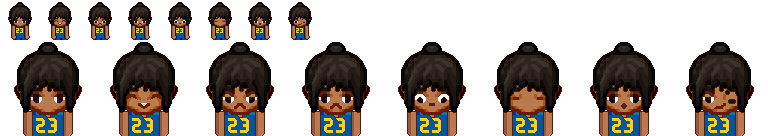
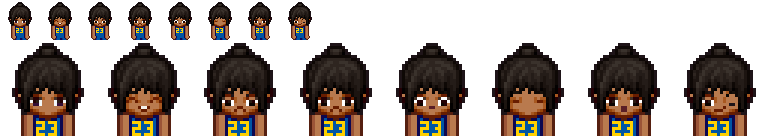
Tenis: la cancha definitiva de PixelForja (lote TENIS_V) y el kit al main de hoy
El fondo del Tenis en vertical ya no se arma por código: PixelForja lo pinta entero con la
misma proyección del juego (`tenis_fondo`, 800 x 360) y la red aparte (`tenis_red`), parte
`tenis` de `ui.interfaz`. `Tenis.ts` lo usa cuando está (`canchaArte`): el fondo en (-80, 0)
a profundidad -20 y la red en su `fila` (187) como profundidad, entre los de atrás y los de
adelante. Sin el arte sigue el dibujo por código.

- Submódulo pixel_forja en d88c41f (PR #59) y el kit regenerado completo: además del tenis
  cambian las cajas de Thor, el perro y el gato y los retratos traen `estilo: puro`.
- El pedido TENIS_VERTICAL corregido: la red a d 200 cae en la fila 187 (x 217 a 423 en el
  cuadro de 640), no en la 211.
- ESTADO.md con el lote.
- prueba-tenis: entrenamiento completo, partido 4-7, 0 dobles, 1 afuera de 11.

Claude-Session: https://claude.ai/code/session_01XBTQH4USb3bcg9qAn5jJiP

diff --git a/src/events/Tenis.ts b/src/events/Tenis.ts
@@ -10,6 +10,7 @@ import { Painter, hex } from '../gfx/paint';
 import { lado } from '../core/equipos';
 import { EventScene, prueba, type Competidor } from './base';
 import { queueEscenario } from './escenario';
+import { hayUi, pieza } from '../core/interfaz';
 import type { Paso } from '../core/coach';
 
 /*
@@ -176,6 +177,7 @@ export class Tenis extends EventScene {
    * publicidad, la silla del juez, los bancos, las hortensias y la arcilla en perspectiva con sus marcas de rastrillo.
    */
   private cancha() {
+    if (hayUi(this, 'tenis_fondo')) return this.canchaArte();
     const g = this.add.graphics().setDepth(-20);
     const R = (seed: number) => { const x = Math.sin(seed * 12.9898) * 43758.5453; return x - Math.floor(x); };
     const arte = ['cielo', 'lejos', 'cerca_0'].every((n) => this.textures.exists(`esc_dalat_${n}`));
@@ -213,6 +215,18 @@ export class Tenis extends EventScene {
     // la sombra de la red sobre la arcilla
     this.redG.fillStyle(0x000000, 0.12).fillRect(lx, ly, rx - lx, 3);
     this.adornos(g, R);
+  }
+
+  /**
+   * La cancha definitiva de PixelForja (lote TENIS_V): el fondo entero ya viene pintado con la misma proyección del
+   * juego (`tenis_fondo`, 800 x 360 con el cuadro de 640 centrado), y la red aparte (`tenis_red`) con su fila como
+   * profundidad, para que tape a los de atrás y los de adelante la tapen a ella.
+   */
+  private canchaArte() {
+    this.add.image(-80, 0, 'ui_tenis_fondo').setOrigin(0).setDepth(-20);
+    const red = pieza('tenis_red') as unknown as { fila?: number } | undefined;
+    const fila = red?.fila ?? this.pant(0, RED_D)[1];
+    if (hayUi(this, 'tenis_red')) this.add.image(-80, 0, 'ui_tenis_red').setOrigin(0).setDepth(fila);
   }
 
   /**

diff --git a/para_pixel_forja/PEDIDO_TENIS_VERTICAL.md b/para_pixel_forja/PEDIDO_TENIS_VERTICAL.md
@@ -12,7 +12,8 @@ el arte de PixelForja para reemplazar ese dibujo. El juego lo toma con `hayUi` y
   - `x_pantalla = 320 + x * s * 1.35`
   - `y_pantalla = -135.6 + 457.6 * s`  (tu línea de fondo en la fila 322, la de ellos en la 114)
 - Con eso, las esquinas de la cancha de dobles caen en: tu fondo x 185 a 455 (fila 322); el de ellos x 246 a 394
-  (fila 114). La red va de x 174 a 466 en la fila 211, y mide 13 px de alto en pantalla.
+  (fila 114). La red (d 200, con los palos 8 afuera de la cancha) va de x 217 a 423 en la fila 187, y mide 17 px de
+  alto en pantalla (24 en el mundo por la escala 0,706).
 - Los jugadores son los atletas del kit con sus filas `up` (los nuestros, de espaldas) y `down` (ellos, de frente),
   escalados con `s(d)`. Eso ya funciona con el pack de tenis actual.
 
@@ -22,9 +23,9 @@ el arte de PixelForja para reemplazar ese dibujo. El juego lo toma con `hayUi` y
    (pinos, niebla de la mañana, el lago Xuân Hương de fondo, la grada con público, la silla del juez a la derecha de la
    red, la arcilla roja con sus líneas blancas). Sin la red. El cuadro de 640 centrado (x 80 a 720 del png).
 2. **`ui/tenis_red.png`**: la red sola, con sus dos palos, para dibujarla encima de los jugadores de atrás y debajo de
-   los de adelante. Que mida lo que dice la proyección (de x 174 a 466, 13 px de alto más los palos).
-3. **En el manifiesto**, en `ui.interfaz`: `tenis_fondo` con `cancha: [[185, 322], [455, 322], [394, 114], [246, 114]]`
-   (las cuatro esquinas, para que el juego sepa que calza) y `tenis_red` con `fila: 211`.
+   los de adelante. Que mida lo que dice la proyección (de x 217 a 423 en el cuadro de 640, 17 px de alto más los palos).
+3. **En el manifiesto**, en `ui.interfaz`: `tenis_fondo` con `cancha` (las cuatro esquinas en el png de 800, para que el
+   juego sepa que calza) y `tenis_red` con `fila: 187`.
 4. Opcional: `ui/tenis_publico.png` animado (2 cuadros) para la grada, y los sellos de las líneas de saque si quieren
    que se vean con textura de arcilla.
 
@@ -36,3 +37,9 @@ el arte de PixelForja para reemplazar ese dibujo. El juego lo toma con `hayUi` y
 ## Nota del juego
 
 Si alguna medida no calza al integrar, el juego no la corrige: queda anotado aquí con la coordenada exacta.
+
+**Hecho (lote TENIS_V, PixelForja `src/engine/ui/tenis.ts`):** `tenis_fondo` y `tenis_red` salen de la parte `tenis`
+de `ui.interfaz`, los dos de 800 x 360, con `extra.cancha = [[265, 322], [535, 322], [474, 114], [326, 114]]` (en el
+png de 800: restar 80 para el cuadro de 640), `extra.red = { fila: 187, x0: 297, x1: 503, alto: 17 }` y
+`extra.proyeccion`. La primera versión de este pedido decía fila 211 y x 174 a 466 para la red: era un error de
+cuenta, la red a d 200 cae en la 187. El juego la dibuja en `fila` como profundidad, igual que antes la de código.

diff --git a/para_pixel_forja/ESTADO.md b/para_pixel_forja/ESTADO.md
@@ -46,8 +46,15 @@ Estados: `pendiente`, `en curso`, `entregado`, `aprobado`.
 | INTRO | azotea con Kenji de espaldas, Bogotá, Maracaibo y el desayuno | en el juego | [#53](https://github.com/Lothra2/pixel_forja/pull/53) |
 | AJUSTES | la rosa del mapa, la presentación de los rivales y Rick con parted2 | en el juego | [#54](https://github.com/Lothra2/pixel_forja/pull/54) |
 | PLACAS | las placas de intro_presentacion a 112 y `placa: 112` en el manifiesto | en el juego | [#55](https://github.com/Lothra2/pixel_forja/pull/55) |
+| TENIS_V | la cancha de tenis vista desde atrás: tenis_fondo y tenis_red con la proyección del juego | en el juego | [#59](https://github.com/Lothra2/pixel_forja/pull/59) |
 
 ## Lo último del lado del juego
+- **TENIS_V (#59) en el juego** y el submódulo en el main de PixelForja (d88c41f). El juego lo pidió en `PEDIDO_TENIS_VERTICAL.md` y lo hizo él mismo dentro del motor (`src/engine/ui/tenis.ts`, parte `tenis` de `ui.interfaz`): la suite pasó 600 de 600 sobre la rama y se unió.
+  - `tenis_fondo` (800 x 360) trae la cancha entera con la proyección exacta del Tenis en vertical: Đà Lạt con el lago y los pinos, la malla con la lona, la arcilla con sus rayas, las gradas con público, la pared de vallas, las macetas, los faroles, la silla del juez, las bancas y los recogepelotas. `tenis_red` es la red sola. Todo con los pinceles de la casa, nada pegado.
+  - El juego (`Tenis.ts`, `canchaArte`) pone el fondo en (-80, 0) a profundidad -20 y la red en `fila` (187) como profundidad, igual que la de código. Si no está `ui_tenis_fondo`, sigue el dibujo por código con el escenario `dalat` de lado.
+  - El pedido decía red en la fila 211 (x 174 a 466): era un error de cuenta, a d 200 cae en la 187 (x 217 a 423 en el cuadro de 640). Quedó corregido en el pedido.
+  - El kit se regeneró completo con el main de hoy (1093 archivos): además del tenis cambian las cajas de Thor, el perro y el gato y los retratos traen `estilo: puro`, que ya eran así en Forja y el juego no había vuelto a generar.
+
 - **PLACAS (#55) en el juego** y el submódulo en el main de PixelForja (b0517a4). #55 estaba abierto: pasó tsc y la suite sobre main (el test del kit completo se pasó de tiempo con la máquina cargada y pasó 15 de 15 corrido solo), y el juego lo unió.
   - El juego lee el ancho de `placa` del manifiesto (104 si no viene). Los nombres de más de 8 letras van a 1,5 y el resto a 2. Huecos y `nombres` no cambian.
   - DON HERNANDO a 1,5 mide 108 y ABUELA NERVA 104: los dos caben en 112. El respaldo que baja a 1 solo actúa con la placa vieja.
